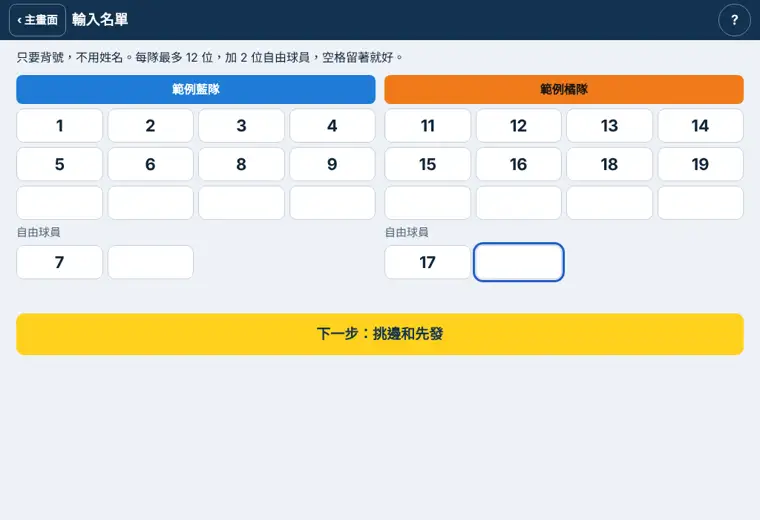
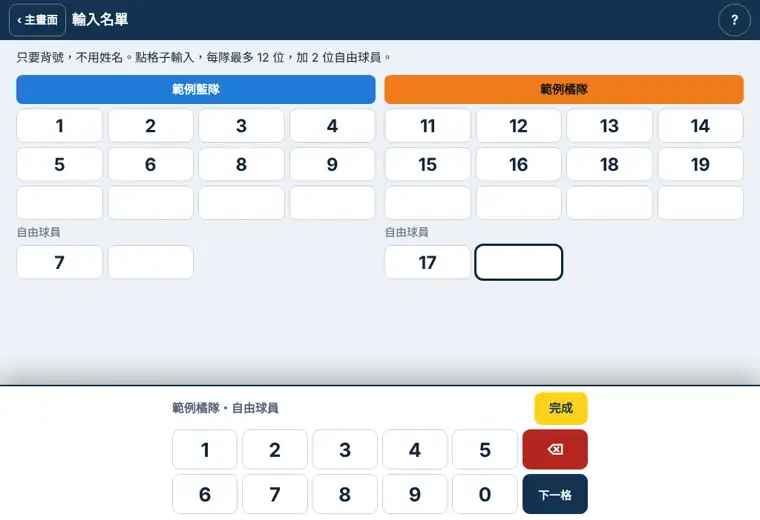
二裁輪轉表：修正安裝後局末面板跑出畫面，名單改用數字鍵盤
Claude-Session: https://claude.ai/code/session_01Q8m2fy2RTEJAX7p5nreRUD

diff --git a/school/index.html b/school/index.html
@@ -100,7 +100,18 @@ button.lubtn{position:relative;height:68px;width:100%;padding:0;background:var(-
 .rteam{display:flex;flex-direction:column;gap:6px;min-width:0}
 .rname{background:var(--j);color:var(--jt);border-radius:8px;padding:8px;font-weight:800;text-align:center;overflow-wrap:anywhere}
 .rgrid{display:grid;grid-template-columns:repeat(4,minmax(0,1fr));gap:6px}
-.rgrid input{text-align:center;font:700 22px var(--num);padding:0}
+.rcell{min-height:46px;height:46px;padding:0;font:700 24px var(--num)}
+.rcell.on{outline:3px solid var(--ink);outline-offset:-1px}
+.page.padopen{padding-bottom:200px;scroll-padding-bottom:200px}
+.rpad{position:fixed;left:0;right:0;bottom:calc(0px - var(--vgap));z-index:15;background:var(--panel);border-top:2px solid var(--ink);padding:8px max(12px,env(safe-area-inset-right,0px)) calc(8px + var(--safe-bot)) max(12px,env(safe-area-inset-left,0px));display:flex;flex-direction:column;gap:6px;align-items:center;box-shadow:0 -10px 30px rgba(0,0,0,.28)}
+.rpad>*{width:100%;max-width:560px}
+.rphead{display:flex;justify-content:space-between;align-items:center;gap:8px;color:var(--muted);font-weight:700}
+.rdone{background:var(--accent);border-color:var(--accent);color:var(--accent-ink);font-weight:800;min-width:72px}
+.rkeys{display:grid;grid-template-columns:repeat(6,minmax(0,1fr));gap:6px}
+.rkeys button{min-height:54px;padding:0;font:700 26px var(--num)}
+.rkeys .rdel{background:var(--bad);border-color:var(--bad);color:var(--panel);font-size:20px}
+.rkeys .rnext{font:800 15px var(--font);background:var(--brand);border-color:var(--brand);color:#fff}
+@media (prefers-color-scheme:dark){.rkeys .rnext{background:#6FB3F2;border-color:#6FB3F2;color:#12324F}}
 /* 比賽 */
 .play{flex:1;min-height:0;display:grid;gap:8px;padding:8px max(10px,env(safe-area-inset-right,0px)) calc(8px + var(--safe-bot)) max(10px,env(safe-area-inset-left,0px));grid-template:auto minmax(0,1fr)/repeat(2,minmax(0,1fr));grid-template-areas:"a b" "c c"}
 .teamA{grid-area:a}.teamB{grid-area:b}.courtw{grid-area:c;display:flex;flex-direction:column;gap:4px;min-height:0}
@@ -143,7 +154,7 @@ button.lubtn{position:relative;height:68px;width:100%;padding:0;background:var(-
 .chips{display:flex;flex-wrap:wrap;gap:6px}
 .chips button{min-width:56px;min-height:48px;font:700 22px var(--num)}
 .sheet .sub2{display:grid;grid-template-columns:repeat(2,minmax(0,1fr));gap:8px}
-@media (min-width:760px){.sheet{left:auto;top:0;width:380px;max-height:none;border-radius:14px 0 0 14px;padding-top:calc(16px + var(--safe-top))}.sheet.center{top:auto;bottom:50%;right:50%;transform:translate(50%,50%);width:440px;border-radius:14px;padding-top:16px}}
+@media (min-width:760px){.sheet{left:auto;top:0;width:380px;max-height:none;border-radius:14px 0 0 14px;padding-top:calc(16px + var(--safe-top))}.sheet.center{top:50%;bottom:auto!important;left:50%;right:auto;transform:translate(-50%,-50%);width:440px;max-width:calc(100% - 32px);max-height:calc(100% - 32px);border-radius:14px;padding-top:16px;padding-bottom:16px}}
 .res{width:100%;border-collapse:collapse}
 .res th,.res td{border:1px solid var(--line);padding:8px 4px;text-align:center}
 .res td{font:700 22px var(--num)}
@@ -187,6 +198,7 @@ button.lubtn{position:relative;height:68px;width:100%;padding:0;background:var(-
 }
 @media (orientation:landscape) and (min-width:640px) and (max-width:900px){.play{grid-template-columns:118px minmax(0,1fr) 118px}.team .thead:nth-child(2) .muted{font-size:13px}}
 @media (orientation:landscape) and (max-height:520px){
+  .rpad{flex-direction:row;padding-top:6px;padding-bottom:calc(6px + var(--safe-bot))}.rpad>*{max-width:none}.rphead{flex:none;width:auto;flex-direction:column;gap:2px;font-size:13px}.rphead span{display:none}.rkeys{flex:1;grid-template-columns:repeat(10,minmax(0,1fr)) 44px 62px}.rkeys button{min-height:44px;font-size:22px}.rkeys .rdel{order:1}.rkeys .rnext{order:2;font-size:14px}.page.padopen{padding-bottom:70px;scroll-padding-bottom:70px}
   .hero{padding-top:12px;padding-bottom:12px}.hero h1{font-size:34px}.hero .ballbg{display:none}
   .sheet{max-height:100%}button.lubtn{height:52px}
   .himg{display:none}
@@ -214,7 +226,7 @@ button.lubtn{position:relative;height:68px;width:100%;padding:0;background:var(-
 <script>
 (function(){'use strict';
 /* 所有動作都是事件，畫面由 reduce() 推算；復原就是拿掉最後一個事件 */
-var KEY='vb-school-v1',BUILD='1105-2243',lastRaw=null,memOnly=false,stale=false;
+var KEY='vb-school-v1',BUILD='1105-2257',lastRaw=null,memOnly=false,stale=false;
 var ROMAN=['I','II','III','IV','V','VI'];
 var LEFT=[[4,3],[5,2],[0,1]],RIGHT=[[1,0],[2,5],[3,4]]; // 坐在記錄台看出去：每列 [左欄, 右欄]，靠網子的是前排
 var BALL="<svg class=\"ball\" viewBox=\"-100 -100 200 200\" width=\"76\" height=\"76\" aria-hidden=\"true\"><g transform=\"translate(0,0) scale(1.0)\"><clipPath id=\"sbvb\"><circle r=\"97\"/></clipPath><clipPath id=\"sbvbs\"><path d=\"M0.00 0.00C34.00 -26.00 44.00 -74.00 24.00 -140.00L130.00 -225.17L260.00 -0.00L109.24 90.78C42.09 75.11 5.52 42.44 -0.00 0.00Z\"/></clipPath><g clip-path=\"url(#sbvb)\"><g transform=\"rotate(0)\"><g clip-path=\"url(#sbvbs)\"><path d=\"M-60 46L0 0C34.00 -26.00 44.00 -74.00 24.00 -140.00\" fill=\"none\" stroke=\"#12324F\" stroke-width=\"327\" stroke-linejoin=\"round\"/><path d=\"M-60 46L0 0C34.00 -26.00 44.00 -74.00 24.00 -140.00\" fill=\"none\" stroke=\"#1F5FC4\" stroke-width=\"320\" stroke-linejoin=\"round\"/><path d=\"M-60 46L0 0C34.00 -26.00 44.00 -74.00 24.00 -140.00\" fill=\"none\" stroke=\"#12324F\" stroke-width=\"157\" stroke-linejoin=\"round\"/><path d=\"M-60 46L0 0C34.00 -26.00 44.00 -74.00 24.00 -140.00\" fill=\"none\" stroke=\"#FFFFFF\" stroke-width=\"150\" stroke-linejoin=\"round\"/><path d=\"M-60 46L0 0C34.00 -26.00 44.00 -74.00 24.00 -140.00\" fill=\"none\" stroke=\"#12324F\" stroke-width=\"85\" stroke-linejoin=\"round\"/><path d=\"M-60 46L0 0C34.00 -26.00 44.00 -74.00 24.00 -140.00\" fill=\"none\" stroke=\"#FFD21F\" stroke-width=\"78\" stroke-linejoin=\"round\"/></g></g><g transform=\"rotate(120)\"><g clip-path=\"url(#sbvbs)\"><path d=\"M-60 46L0 0C34.00 -26.00 44.00 -74.00 24.00 -140.00\" fill=\"none\" stroke=\"#12324F\" stroke-width=\"327\" stroke-linejoin=\"round\"/><path d=\"M-60 46L0 0C34.00 -26.00 44.00 -74.00 24.00 -140.00\" fill=\"none\" stroke=\"#1F5FC4\" stroke-width=\"320\" stroke-linejoin=\"round\"/><path d=\"M-60 46L0 0C34.00 -26.00 44.00 -74.00 24.00 -140.00\" fill=\"none\" stroke=\"#12324F\" stroke-width=\"157\" stroke-linejoin=\"round\"/><path d=\"M-60 46L0 0C34.00 -26.00 44.00 -74.00 24.00 -140.00\" fill=\"none\" stroke=\"#FFFFFF\" stroke-width=\"150\" stroke-linejoin=\"round\"/><path d=\"M-60 46L0 0C34.00 -26.00 44.00 -74.00 24.00 -140.00\" fill=\"none\" stroke=\"#12324F\" stroke-width=\"85\" stroke-linejoin=\"round\"/><path d=\"M-60 46L0 0C34.00 -26.00 44.00 -74.00 24.00 -140.00\" fill=\"none\" stroke=\"#FFD21F\" stroke-width=\"78\" stroke-linejoin=\"round\"/></g></g><g transform=\"rotate(240)\"><g clip-path=\"url(#sbvbs)\"><path d=\"M-60 46L0 0C34.00 -26.00 44.00 -74.00 24.00 -140.00\" fill=\"none\" stroke=\"#12324F\" stroke-width=\"327\" stroke-linejoin=\"round\"/><path d=\"M-60 46L0 0C34.00 -26.00 44.00 -74.00 24.00 -140.00\" fill=\"none\" stroke=\"#1F5FC4\" stroke-width=\"320\" stroke-linejoin=\"round\"/><path d=\"M-60 46L0 0C34.00 -26.00 44.00 -74.00 24.00 -140.00\" fill=\"none\" stroke=\"#12324F\" stroke-width=\"157\" stroke-linejoin=\"round\"/><path d=\"M-60 46L0 0C34.00 -26.00 44.00 -74.00 24.00 -140.00\" fill=\"none\" stroke=\"#FFFFFF\" stroke-width=\"150\" stroke-linejoin=\"round\"/><path d=\"M-60 46L0 0C34.00 -26.00 44.00 -74.00 24.00 -140.00\" fill=\"none\" stroke=\"#12324F\" stroke-width=\"85\" stroke-linejoin=\"round\"/><path d=\"M-60 46L0 0C34.00 -26.00 44.00 -74.00 24.00 -140.00\" fill=\"none\" stroke=\"#FFD21F\" stroke-width=\"78\" stroke-linejoin=\"round\"/></g></g><g transform=\"rotate(0)\"><path d=\"M0.00 0.00C34.00 -26.00 44.00 -74.00 24.00 -140.00\" fill=\"none\" stroke=\"#12324F\" stroke-width=\"7\" stroke-linecap=\"round\"/></g><g transform=\"rotate(120)\"><path d=\"M0.00 0.00C34.00 -26.00 44.00 -74.00 24.00 -140.00\" fill=\"none\" stroke=\"#12324F\" stroke-width=\"7\" stroke-linecap=\"round\"/></g><g transform=\"rotate(240)\"><path d=\"M0.00 0.00C34.00 -26.00 44.00 -74.00 24.00 -140.00\" fill=\"none\" stroke=\"#12324F\" stroke-width=\"7\" stroke-linecap=\"round\"/></g></g><circle r=\"97\" fill=\"none\" stroke=\"#12324F\" stroke-width=\"7\"/></g></svg>";
@@ -344,11 +356,15 @@ function setHtml(s){
 }
 function rosterHtml(s){
   var r=ui.ros;if(!r){var g=s.roster;function mk(a,n){a=(a||[]).slice();while(a.length<n)a.push('');return a}
-    r=ui.ros=g?{t1:{p:mk(g.t1.p,12),l:mk(g.t1.l,2)},t2:{p:mk(g.t2.p,12),l:mk(g.t2.l,2)}}:{t1:{p:mk([],12),l:mk([],2)},t2:{p:mk([],12),l:mk([],2)}}}
-  function team(k){function inp(gp,i){return '<input inputmode="numeric" pattern="[0-9]*" maxlength="2" enterkeyhint="next" autocomplete="off" data-r="'+k+'" data-g="'+gp+'" data-i="'+i+'" value="'+esc(r[k][gp][i])+'" aria-label="'+esc(teamNo(s,k))+(gp==='l'?' 自由球員 ':' 球員 ')+(i+1)+'">'}
+    r=ui.ros=g?{t1:{p:mk(g.t1.p,12),l:mk(g.t1.l,2)},t2:{p:mk(g.t2.p,12),l:mk(g.t2.l,2)}}:{t1:{p:mk([],12),l:mk([],2)},t2:{p:mk([],12),l:mk([],2)}};
+    ui.rcur=g?null:{k:'t1',g:'p',i:0};ui.rosMsg=''}
+  var c=ui.rcur;
+  function team(k){function inp(gp,i){var on=c&&c.k===k&&c.g===gp&&c.i===i;return '<button class="rcell'+(on?' on':'')+'" data-a="rcell" data-k="'+k+'" data-gp="'+gp+'" data-v="'+i+'" aria-pressed="'+!!on+'" aria-label="'+esc(teamNo(s,k))+(gp==='l'?' 自由球員 ':' 球員 ')+(i+1)+'">'+esc(r[k][gp][i])+'</button>'}
     return '<section class="rteam"><div class="rname" style="'+jstyle(s,k)+'">'+esc(teamNo(s,k))+'</div><div class="rgrid">'+r[k].p.map(function(_,i){return inp('p',i)}).join('')+'</div><div class="muted">自由球員</div><div class="rgrid">'+r[k].l.map(function(_,i){return inp('l',i)}).join('')+'</div></section>'}
-  return bar('輸入名單','',qbtn('start'),'home')+'<main class="page"><div class="wrap wide"><p>只要背號，不用姓名。每隊最多 12 位，加 2 位自由球員，空格留著就好。</p><div class="two">'+team('t1')+team('t2')+'</div><p class="err" id="roserr"></p><button class="primary" data-a="rosgo">下一步：挑邊和先發</button></div></main>';
+  var pad=c?'<div class="rpad" role="group" aria-label="輸入背號"><div class="rphead"><span>'+esc(teamNo(s,c.k))+'・'+(c.g==='l'?'自由球員':'一般球員')+'</span><button class="rdone" data-a="rdone">完成</button></div><div class="rkeys">'+[1,2,3,4,5].map(rk).join('')+'<button class="rdel" data-a="rkey" data-v="del" aria-label="刪除一格">⌫</button>'+[6,7,8,9,0].map(rk).join('')+'<button class="rnext" data-a="rnext">下一格</button></div></div>':'';
+  return bar('輸入名單','',qbtn('start'),'home')+'<main class="page'+(c?' padopen':'')+'"><div class="wrap wide"><p>只要背號，不用姓名。點格子輸入，每隊最多 12 位，加 2 位自由球員。</p><div class="two">'+team('t1')+team('t2')+'</div><p class="err" id="roserr" role="alert">'+esc(ui.rosMsg||'')+'</p>'+(c?'':'<button class="primary" data-a="rosgo">下一步：挑邊和先發</button>')+'</div></main>'+pad;
 }
+function rk(n){return '<button data-a="rkey" data-v="'+n+'">'+n+'</button>'}
 function cell(s,k,pos){
   var c=s.c,idx=(pos+c.rot[k])%6,no=c.cur[k][idx],isL=c.lib[k].indexOf(no)>=0,srv=pos===0&&c.serving===k,b=c.bind[k][idx],tag='';
   if(isL&&c.libOut[k])tag='L 換 '+c.libOut[k].no;else if(b!=null)tag='綁 '+b;
@@ -403,7 +419,7 @@ function overHtml(s){
 var HELP=[
  {id:'start',name:'開始一場比賽',desc:'隊名、賽制、挑邊、先發',cards:[
   ['h-new','填隊名和賽制','隊名可以不填。選球衣顏色和三局兩勝或五局三勝，按下一步。'],
-  ['h-roster','輸入名單','賽前輸入兩隊背號，不用姓名。每隊最多 12 位，加 2 位自由球員。'],
+  ['h-roster','輸入名單','點格子，用下方鍵盤輸入背號，不用姓名。重複的號碼不會留下來。打完按「完成」。'],
   ['h-set','挑邊和先發','點先發球的隊伍，點格子再點背號排先發。畫面和你看到的球場同方向，靠網子的是前排。'],
   ['h-setnext','下一局','第 2 局起自動換邊，先發先帶上一局的，要改就點格子。決勝局會請你重新挑邊。']]},
  {id:'play',name:'比賽中',desc:'得分、發球、暫停、復原',cards:[
@@ -476,16 +492,15 @@ function setGo(s){
 }
 app.addEventListener('input',function(e){var t=e.target,d=t.dataset;
   if(d.f&&fresh){fresh[d.f]=t.value}
-  if(d.r){t.value=t.value.replace(/\D/g,'');ui.ros[d.r][d.g][Number(d.i)]=t.value;rosMsg('');if(t.value.length===2&&!rosDup(t))rosNext(t)}
 });
-function rosMsg(x){var e=document.getElementById('roserr');if(e)e.textContent=x}
 /* 重複的背號不留下來：兩位數打完馬上清掉；一位數可能還要接著打（5 和 51），離開格子時才清 */
-function rosDup(t){var d=t.dataset,v=t.value;if(v==='')return false;var hit=[].slice.call(app.querySelectorAll('[data-r="'+d.r+'"]')).some(function(x){return x!==t&&x.value!==''&&Number(x.value)===Number(v)});if(!hit)return false;t.value='';ui.ros[d.r][d.g][Number(d.i)]='';rosMsg(Number(v)+' 號已經在名單上了');return true}
-app.addEventListener('focusout',function(e){if(e.target.dataset&&e.target.dataset.r)rosDup(e.target)});
-function rosNext(t){var a=[].slice.call(app.querySelectorAll('[data-r]')),n=a[a.indexOf(t)+1];if(n)n.focus()}
-app.addEventListener('keydown',function(e){if(e.key==='Enter'&&e.target.dataset&&e.target.dataset.r&&!e.isComposing){e.preventDefault();rosNext(e.target)}});
+function rosDup(){var c=ui.rcur;if(!c)return false;var t=ui.ros[c.k],v=t[c.g][c.i];if(v==='')return false;var hit=false;['p','l'].forEach(function(g){t[g].forEach(function(x,i){if(!(g===c.g&&i===c.i)&&x!==''&&Number(x)===Number(v))hit=true})});if(!hit)return false;t[c.g][c.i]='';ui.rosMsg=Number(v)+' 號已經在名單上了';return true}
+function rosKey(v){var c=ui.rcur,t=ui.ros[c.k][c.g],x=String(t[c.i]);ui.rosMsg='';if(v==='del')t[c.i]=x.slice(0,-1);else if(x.length<2){t[c.i]=x+v;if(t[c.i].length===2&&!rosDup())rosStep()}else{rosStep();ui.ros[ui.rcur.k][ui.rcur.g][ui.rcur.i]=v}render();rosShow()}
+function rosStep(){var c=ui.rcur;if(c.g==='p'&&c.i<11)c.i++;else if(c.g==='p'){c.g='l';c.i=0}else if(c.i<1)c.i++;else{c.k=other(c.k);c.g='p';c.i=0}}
+function rosShow(){var e=app.querySelector('.rcell.on');if(e)e.scrollIntoView({block:'nearest'})}
 addEventListener('keydown',function(e){kbd=e.key==='Tab'||kbd;
   if(e.key==='Escape'){if(ui.help){ui.help=null;render()}else if(ui.sub){ui.sub=null;render()}}
+  if(ui.rcur&&ui.ros&&!ui.help){if(/^\d$/.test(e.key))rosKey(e.key);else if(e.key==='Backspace')rosKey('del');else if(e.key==='Enter'){e.preventDefault();if(!rosDup())rosStep();render();rosShow()}else if(e.key==='Escape'){rosDup();ui.rcur=null;render()}}
   if(ui.sub&&ui.sub.ext&&!ui.help&&document.querySelector('.keys')){if(/^\d$/.test(e.key))keyTap(e.key);else if(e.key==='Backspace')keyTap('del');else if(e.key==='Enter'){e.preventDefault();subGo()}}
   if(ui.help&&ui.help.t){if(e.key==='ArrowRight')helpGo(1);if(e.key==='ArrowLeft')helpGo(-1)}
 });
@@ -516,6 +531,10 @@ app.addEventListener('click',function(e){
     case 'del':ui.del=v;break;
     case 'delno':ui.del=null;break;
     case 'delyes':db.matches=db.matches.filter(function(x){return x.id!==v});ui.del=null;save();break;
+    case 'rcell':rosDup();ui.rcur={k:k,g:b.dataset.gp,i:Number(v)};break;
+    case 'rkey':rosKey(v);return;
+    case 'rnext':if(!rosDup())rosStep();render();rosShow();return;
+    case 'rdone':rosDup();ui.rcur=null;break;
     case 'rosgo':
       var rs=ui.ros,re_=document.getElementById('roserr'),out={},bad=null;
       ['t1','t2'].forEach(function(t){var pl=rs[t].p.map(function(x){return String(x).trim()}).filter(Boolean).map(Number),ll=rs[t].l.map(function(x){return String(x).trim()}).filter(Boolean).map(Number),al=pl.concat(ll),nm0=teamNo({info:m.info},t);
@@ -523,7 +542,7 @@ app.addEventListener('click',function(e){
         al.forEach(function(n,i){if(!bad&&al.indexOf(n)!==i)bad=nm0+'有重複的背號 '+n});
         out[t]={p:pl.sort(function(a,b){return a-b}),l:ll}});
       if(bad){re_.textContent=bad;return}
-      m.info.roster=out;m.ev=m.ev.filter(function(e){return e.t!=='RADD'});ui.ros=null;ui.editRoster=false;ui.draft=null;save();break;
+      m.info.roster=out;m.ev=m.ev.filter(function(e){return e.t!=='RADD'});ui.ros=null;ui.rcur=null;ui.editRoster=false;ui.draft=null;save();break;
     case 'editroster':ui.editRoster=true;ui.ros=null;break;
     case 'lucell':var dl=ui.draft;dl.pick={k:k,pos:Number(v)};break;
     case 'lupick':var dp=ui.draft;dp.lu[dp.pick.k][dp.pick.pos]=Number(v);nextPick(dp);break;

diff --git a/tools/school/src.html b/tools/school/src.html
@@ -100,7 +100,18 @@ button.lubtn{position:relative;height:68px;width:100%;padding:0;background:var(-
 .rteam{display:flex;flex-direction:column;gap:6px;min-width:0}
 .rname{background:var(--j);color:var(--jt);border-radius:8px;padding:8px;font-weight:800;text-align:center;overflow-wrap:anywhere}
 .rgrid{display:grid;grid-template-columns:repeat(4,minmax(0,1fr));gap:6px}
-.rgrid input{text-align:center;font:700 22px var(--num);padding:0}
+.rcell{min-height:46px;height:46px;padding:0;font:700 24px var(--num)}
+.rcell.on{outline:3px solid var(--ink);outline-offset:-1px}
+.page.padopen{padding-bottom:200px;scroll-padding-bottom:200px}
+.rpad{position:fixed;left:0;right:0;bottom:calc(0px - var(--vgap));z-index:15;background:var(--panel);border-top:2px solid var(--ink);padding:8px max(12px,env(safe-area-inset-right,0px)) calc(8px + var(--safe-bot)) max(12px,env(safe-area-inset-left,0px));display:flex;flex-direction:column;gap:6px;align-items:center;box-shadow:0 -10px 30px rgba(0,0,0,.28)}
+.rpad>*{width:100%;max-width:560px}
+.rphead{display:flex;justify-content:space-between;align-items:center;gap:8px;color:var(--muted);font-weight:700}
+.rdone{background:var(--accent);border-color:var(--accent);color:var(--accent-ink);font-weight:800;min-width:72px}
+.rkeys{display:grid;grid-template-columns:repeat(6,minmax(0,1fr));gap:6px}
+.rkeys button{min-height:54px;padding:0;font:700 26px var(--num)}
+.rkeys .rdel{background:var(--bad);border-color:var(--bad);color:var(--panel);font-size:20px}
+.rkeys .rnext{font:800 15px var(--font);background:var(--brand);border-color:var(--brand);color:#fff}
+@media (prefers-color-scheme:dark){.rkeys .rnext{background:#6FB3F2;border-color:#6FB3F2;color:#12324F}}
 /* 比賽 */
 .play{flex:1;min-height:0;display:grid;gap:8px;padding:8px max(10px,env(safe-area-inset-right,0px)) calc(8px + var(--safe-bot)) max(10px,env(safe-area-inset-left,0px));grid-template:auto minmax(0,1fr)/repeat(2,minmax(0,1fr));grid-template-areas:"a b" "c c"}
 .teamA{grid-area:a}.teamB{grid-area:b}.courtw{grid-area:c;display:flex;flex-direction:column;gap:4px;min-height:0}
@@ -143,7 +154,7 @@ button.lubtn{position:relative;height:68px;width:100%;padding:0;background:var(-
 .chips{display:flex;flex-wrap:wrap;gap:6px}
 .chips button{min-width:56px;min-height:48px;font:700 22px var(--num)}
 .sheet .sub2{display:grid;grid-template-columns:repeat(2,minmax(0,1fr));gap:8px}
-@media (min-width:760px){.sheet{left:auto;top:0;width:380px;max-height:none;border-radius:14px 0 0 14px;padding-top:calc(16px + var(--safe-top))}.sheet.center{top:auto;bottom:50%;right:50%;transform:translate(50%,50%);width:440px;border-radius:14px;padding-top:16px}}
+@media (min-width:760px){.sheet{left:auto;top:0;width:380px;max-height:none;border-radius:14px 0 0 14px;padding-top:calc(16px + var(--safe-top))}.sheet.center{top:50%;bottom:auto!important;left:50%;right:auto;transform:translate(-50%,-50%);width:440px;max-width:calc(100% - 32px);max-height:calc(100% - 32px);border-radius:14px;padding-top:16px;padding-bottom:16px}}
 .res{width:100%;border-collapse:collapse}
 .res th,.res td{border:1px solid var(--line);padding:8px 4px;text-align:center}
 .res td{font:700 22px var(--num)}
@@ -187,6 +198,7 @@ button.lubtn{position:relative;height:68px;width:100%;padding:0;background:var(-
 }
 @media (orientation:landscape) and (min-width:640px) and (max-width:900px){.play{grid-template-columns:118px minmax(0,1fr) 118px}.team .thead:nth-child(2) .muted{font-size:13px}}
 @media (orientation:landscape) and (max-height:520px){
+  .rpad{flex-direction:row;padding-top:6px;padding-bottom:calc(6px + var(--safe-bot))}.rpad>*{max-width:none}.rphead{flex:none;width:auto;flex-direction:column;gap:2px;font-size:13px}.rphead span{display:none}.rkeys{flex:1;grid-template-columns:repeat(10,minmax(0,1fr)) 44px 62px}.rkeys button{min-height:44px;font-size:22px}.rkeys .rdel{order:1}.rkeys .rnext{order:2;font-size:14px}.page.padopen{padding-bottom:70px;scroll-padding-bottom:70px}
   .hero{padding-top:12px;padding-bottom:12px}.hero h1{font-size:34px}.hero .ballbg{display:none}
   .sheet{max-height:100%}button.lubtn{height:52px}
   .himg{display:none}
@@ -344,11 +356,15 @@ function setHtml(s){
 }
 function rosterHtml(s){
   var r=ui.ros;if(!r){var g=s.roster;function mk(a,n){a=(a||[]).slice();while(a.length<n)a.push('');return a}
-    r=ui.ros=g?{t1:{p:mk(g.t1.p,12),l:mk(g.t1.l,2)},t2:{p:mk(g.t2.p,12),l:mk(g.t2.l,2)}}:{t1:{p:mk([],12),l:mk([],2)},t2:{p:mk([],12),l:mk([],2)}}}
-  function team(k){function inp(gp,i){return '<input inputmode="numeric" pattern="[0-9]*" maxlength="2" enterkeyhint="next" autocomplete="off" data-r="'+k+'" data-g="'+gp+'" data-i="'+i+'" value="'+esc(r[k][gp][i])+'" aria-label="'+esc(teamNo(s,k))+(gp==='l'?' 自由球員 ':' 球員 ')+(i+1)+'">'}
+    r=ui.ros=g?{t1:{p:mk(g.t1.p,12),l:mk(g.t1.l,2)},t2:{p:mk(g.t2.p,12),l:mk(g.t2.l,2)}}:{t1:{p:mk([],12),l:mk([],2)},t2:{p:mk([],12),l:mk([],2)}};
+    ui.rcur=g?null:{k:'t1',g:'p',i:0};ui.rosMsg=''}
+  var c=ui.rcur;
+  function team(k){function inp(gp,i){var on=c&&c.k===k&&c.g===gp&&c.i===i;return '<button class="rcell'+(on?' on':'')+'" data-a="rcell" data-k="'+k+'" data-gp="'+gp+'" data-v="'+i+'" aria-pressed="'+!!on+'" aria-label="'+esc(teamNo(s,k))+(gp==='l'?' 自由球員 ':' 球員 ')+(i+1)+'">'+esc(r[k][gp][i])+'</button>'}
     return '<section class="rteam"><div class="rname" style="'+jstyle(s,k)+'">'+esc(teamNo(s,k))+'</div><div class="rgrid">'+r[k].p.map(function(_,i){return inp('p',i)}).join('')+'</div><div class="muted">自由球員</div><div class="rgrid">'+r[k].l.map(function(_,i){return inp('l',i)}).join('')+'</div></section>'}
-  return bar('輸入名單','',qbtn('start'),'home')+'<main class="page"><div class="wrap wide"><p>只要背號，不用姓名。每隊最多 12 位，加 2 位自由球員，空格留著就好。</p><div class="two">'+team('t1')+team('t2')+'</div><p class="err" id="roserr"></p><button class="primary" data-a="rosgo">下一步：挑邊和先發</button></div></main>';
+  var pad=c?'<div class="rpad" role="group" aria-label="輸入背號"><div class="rphead"><span>'+esc(teamNo(s,c.k))+'・'+(c.g==='l'?'自由球員':'一般球員')+'</span><button class="rdone" data-a="rdone">完成</button></div><div class="rkeys">'+[1,2,3,4,5].map(rk).join('')+'<button class="rdel" data-a="rkey" data-v="del" aria-label="刪除一格">⌫</button>'+[6,7,8,9,0].map(rk).join('')+'<button class="rnext" data-a="rnext">下一格</button></div></div>':'';
+  return bar('輸入名單','',qbtn('start'),'home')+'<main class="page'+(c?' padopen':'')+'"><div class="wrap wide"><p>只要背號，不用姓名。點格子輸入，每隊最多 12 位，加 2 位自由球員。</p><div class="two">'+team('t1')+team('t2')+'</div><p class="err" id="roserr" role="alert">'+esc(ui.rosMsg||'')+'</p>'+(c?'':'<button class="primary" data-a="rosgo">下一步：挑邊和先發</button>')+'</div></main>'+pad;
 }
+function rk(n){return '<button data-a="rkey" data-v="'+n+'">'+n+'</button>'}
 function cell(s,k,pos){
   var c=s.c,idx=(pos+c.rot[k])%6,no=c.cur[k][idx],isL=c.lib[k].indexOf(no)>=0,srv=pos===0&&c.serving===k,b=c.bind[k][idx],tag='';
   if(isL&&c.libOut[k])tag='L 換 '+c.libOut[k].no;else if(b!=null)tag='綁 '+b;
@@ -403,7 +419,7 @@ function overHtml(s){
 var HELP=[
  {id:'start',name:'開始一場比賽',desc:'隊名、賽制、挑邊、先發',cards:[
   ['h-new','填隊名和賽制','隊名可以不填。選球衣顏色和三局兩勝或五局三勝，按下一步。'],
-  ['h-roster','輸入名單','賽前輸入兩隊背號，不用姓名。每隊最多 12 位，加 2 位自由球員。'],
+  ['h-roster','輸入名單','點格子，用下方鍵盤輸入背號，不用姓名。重複的號碼不會留下來。打完按「完成」。'],
   ['h-set','挑邊和先發','點先發球的隊伍，點格子再點背號排先發。畫面和你看到的球場同方向，靠網子的是前排。'],
   ['h-setnext','下一局','第 2 局起自動換邊，先發先帶上一局的，要改就點格子。決勝局會請你重新挑邊。']]},
  {id:'play',name:'比賽中',desc:'得分、發球、暫停、復原',cards:[
@@ -476,16 +492,15 @@ function setGo(s){
 }
 app.addEventListener('input',function(e){var t=e.target,d=t.dataset;
   if(d.f&&fresh){fresh[d.f]=t.value}
-  if(d.r){t.value=t.value.replace(/\D/g,'');ui.ros[d.r][d.g][Number(d.i)]=t.value;rosMsg('');if(t.value.length===2&&!rosDup(t))rosNext(t)}
 });
-function rosMsg(x){var e=document.getElementById('roserr');if(e)e.textContent=x}
 /* 重複的背號不留下來：兩位數打完馬上清掉；一位數可能還要接著打（5 和 51），離開格子時才清 */
-function rosDup(t){var d=t.dataset,v=t.value;if(v==='')return false;var hit=[].slice.call(app.querySelectorAll('[data-r="'+d.r+'"]')).some(function(x){return x!==t&&x.value!==''&&Number(x.value)===Number(v)});if(!hit)return false;t.value='';ui.ros[d.r][d.g][Number(d.i)]='';rosMsg(Number(v)+' 號已經在名單上了');return true}
-app.addEventListener('focusout',function(e){if(e.target.dataset&&e.target.dataset.r)rosDup(e.target)});
-function rosNext(t){var a=[].slice.call(app.querySelectorAll('[data-r]')),n=a[a.indexOf(t)+1];if(n)n.focus()}
-app.addEventListener('keydown',function(e){if(e.key==='Enter'&&e.target.dataset&&e.target.dataset.r&&!e.isComposing){e.preventDefault();rosNext(e.target)}});
+function rosDup(){var c=ui.rcur;if(!c)return false;var t=ui.ros[c.k],v=t[c.g][c.i];if(v==='')return false;var hit=false;['p','l'].forEach(function(g){t[g].forEach(function(x,i){if(!(g===c.g&&i===c.i)&&x!==''&&Number(x)===Number(v))hit=true})});if(!hit)return false;t[c.g][c.i]='';ui.rosMsg=Number(v)+' 號已經在名單上了';return true}
+function rosKey(v){var c=ui.rcur,t=ui.ros[c.k][c.g],x=String(t[c.i]);ui.rosMsg='';if(v==='del')t[c.i]=x.slice(0,-1);else if(x.length<2){t[c.i]=x+v;if(t[c.i].length===2&&!rosDup())rosStep()}else{rosStep();ui.ros[ui.rcur.k][ui.rcur.g][ui.rcur.i]=v}render();rosShow()}
+function rosStep(){var c=ui.rcur;if(c.g==='p'&&c.i<11)c.i++;else if(c.g==='p'){c.g='l';c.i=0}else if(c.i<1)c.i++;else{c.k=other(c.k);c.g='p';c.i=0}}
+function rosShow(){var e=app.querySelector('.rcell.on');if(e)e.scrollIntoView({block:'nearest'})}
 addEventListener('keydown',function(e){kbd=e.key==='Tab'||kbd;
   if(e.key==='Escape'){if(ui.help){ui.help=null;render()}else if(ui.sub){ui.sub=null;render()}}
+  if(ui.rcur&&ui.ros&&!ui.help){if(/^\d$/.test(e.key))rosKey(e.key);else if(e.key==='Backspace')rosKey('del');else if(e.key==='Enter'){e.preventDefault();if(!rosDup())rosStep();render();rosShow()}else if(e.key==='Escape'){rosDup();ui.rcur=null;render()}}
   if(ui.sub&&ui.sub.ext&&!ui.help&&document.querySelector('.keys')){if(/^\d$/.test(e.key))keyTap(e.key);else if(e.key==='Backspace')keyTap('del');else if(e.key==='Enter'){e.preventDefault();subGo()}}
   if(ui.help&&ui.help.t){if(e.key==='ArrowRight')helpGo(1);if(e.key==='ArrowLeft')helpGo(-1)}
 });
@@ -516,6 +531,10 @@ app.addEventListener('click',function(e){
     case 'del':ui.del=v;break;
     case 'delno':ui.del=null;break;
     case 'delyes':db.matches=db.matches.filter(function(x){return x.id!==v});ui.del=null;save();break;
+    case 'rcell':rosDup();ui.rcur={k:k,g:b.dataset.gp,i:Number(v)};break;
+    case 'rkey':rosKey(v);return;
+    case 'rnext':if(!rosDup())rosStep();render();rosShow();return;
+    case 'rdone':rosDup();ui.rcur=null;break;
     case 'rosgo':
       var rs=ui.ros,re_=document.getElementById('roserr'),out={},bad=null;
       ['t1','t2'].forEach(function(t){var pl=rs[t].p.map(function(x){return String(x).trim()}).filter(Boolean).map(Number),ll=rs[t].l.map(function(x){return String(x).trim()}).filter(Boolean).map(Number),al=pl.concat(ll),nm0=teamNo({info:m.info},t);
@@ -523,7 +542,7 @@ app.addEventListener('click',function(e){
         al.forEach(function(n,i){if(!bad&&al.indexOf(n)!==i)bad=nm0+'有重複的背號 '+n});
         out[t]={p:pl.sort(function(a,b){return a-b}),l:ll}});
       if(bad){re_.textContent=bad;return}
-      m.info.roster=out;m.ev=m.ev.filter(function(e){return e.t!=='RADD'});ui.ros=null;ui.editRoster=false;ui.draft=null;save();break;
+      m.info.roster=out;m.ev=m.ev.filter(function(e){return e.t!=='RADD'});ui.ros=null;ui.rcur=null;ui.editRoster=false;ui.draft=null;save();break;
     case 'editroster':ui.editRoster=true;ui.ros=null;break;
     case 'lucell':var dl=ui.draft;dl.pick={k:k,pos:Number(v)};break;
     case 'lupick':var dp=ui.draft;dp.lu[dp.pick.k][dp.pick.pos]=Number(v);nextPick(dp);break;

diff --git a/tools/school/test.js b/tools/school/test.js
@@ -9,17 +9,20 @@ await p.goto(URL);
 const A=(a,extra='')=>p.click(`[data-a="${a}"]${extra}`);
 const st=()=>p.evaluate(()=>{const d=JSON.parse(localStorage.getItem('vb-school-v1'));const m=d.matches.find(x=>x.id===d.cur);return m&&window.__vb.reduce(m)});
 const pt=async k=>{await p.click(`.pt[data-k="${k}"]`);await p.waitForTimeout(370)};
+const rc=(k,g,i)=>`.rcell[data-k="${k}"][data-gp="${g}"][data-v="${i}"]`;
+const put=async(k,g,i,n)=>{await p.click(rc(k,g,i));for(const d of String(n))await p.click(`[data-a="rkey"][data-v="${d}"]`)};
+const val=async(k,g,i)=>(await p.textContent(rc(k,g,i))).trim();
+const fill=async(k,ns,ls)=>{for(let i=0;i<ns.length;i++)await put(k,'p',i,ns[i]);for(let i=0;i<ls.length;i++)await put(k,'l',i,ls[i])};
 // 新比賽＋名單
 await A('new');await A('newgo');
-ok(await p.isVisible('[data-r="t1"]'),'名單頁');
-await A('rosgo');ok((await p.textContent('#roserr')).includes('至少要 6 位'),'少於 6 人擋下');
-const fill=async(k,ns,ls)=>{for(let i=0;i<ns.length;i++)await p.fill(`[data-r="${k}"][data-g="p"][data-i="${i}"]`,''+ns[i]);for(let i=0;i<ls.length;i++)await p.fill(`[data-r="${k}"][data-g="l"][data-i="${i}"]`,''+ls[i])};
+ok(await p.isVisible('.rcell'),'名單頁');await p.click('[data-a="rdone"]');
+await A('rosgo');ok((await p.textContent('#roserr')).includes('至少要 6 位'),'少於 6 人擋下');await p.click(rc('t1','p',0));
 await fill('t1',[1,2,3,4,5,6,8,9,10,11,12,13],[7,14]);await fill('t2',[21,22,23,24,25,26,28],[27]);
-ok(await p.locator('[data-r="t1"][data-g="p"]').count()===12&&await p.locator('[data-r="t1"][data-g="l"]').count()===2,'12+2 格');
-await p.fill('[data-r="t2"][data-g="p"][data-i="6"]','21');ok(await p.inputValue('[data-r="t2"][data-g="p"][data-i="6"]')===''&&(await p.textContent('#roserr')).includes('21 號'),'兩位數重複馬上清掉');
-await p.fill('[data-r="t1"][data-g="l"][data-i="1"]','5');await p.keyboard.press('Tab');ok(await p.inputValue('[data-r="t1"][data-g="l"][data-i="1"]')==='','一位數重複離開才清');
-await p.fill('[data-r="t1"][data-g="l"][data-i="1"]','5');await p.fill('[data-r="t1"][data-g="l"][data-i="1"]','51');ok(await p.inputValue('[data-r="t1"][data-g="l"][data-i="1"]')==='51','5 可以接著打成 51');await p.fill('[data-r="t1"][data-g="l"][data-i="1"]','14');
-await p.fill('[data-r="t2"][data-g="p"][data-i="6"]','28');await A('rosgo');
+ok(await p.locator('.rcell[data-k="t1"][data-gp="p"]').count()===12&&await p.locator('.rcell[data-k="t1"][data-gp="l"]').count()===2,'12+2 格');
+await p.click(rc('t2','p',6));await p.click('[data-a="rkey"][data-v="del"]');await p.click('[data-a="rkey"][data-v="del"]');for(const d of '21')await p.click(`[data-a="rkey"][data-v="${d}"]`);ok(await val('t2','p',6)===''&&(await p.textContent('#roserr')).includes('21 號'),'兩位數重複馬上清掉');
+await p.click(rc('t1','l',1));await p.click('[data-a="rkey"][data-v="del"]');await p.click('[data-a="rkey"][data-v="del"]');await p.click('[data-a="rkey"][data-v="5"]');await p.click('[data-a="rnext"]');ok(await val('t1','l',1)==='','一位數重複離開才清');
+await put('t1','l',1,'5');await p.click('[data-a="rkey"][data-v="1"]');ok(await val('t1','l',1)==='51','5 可以接著打成 51');await p.click(rc('t1','l',1));await p.click('[data-a="rkey"][data-v="del"]');await p.click('[data-a="rkey"][data-v="del"]');await put('t1','l',1,'14');
+await put('t2','p',6,'28');await A('rdone');await A('rosgo');
 // 先發
 await A('setgo');ok((await p.textContent('#seterr')).includes('先發球'),'要先選發球');
 await p.click('.tossb[data-v="t1"]');
@@ -66,7 +69,7 @@ await finish('t1');ok((await p.textContent('.sheet.center')).includes('換場'),
 await p.waitForTimeout(850);await A('swap');await finish('t1');await p.waitForTimeout(850);await A('end');
 ok((await p.textContent('.result')).includes('2:1'),'三局結束');
 // 五局制
-await A('home');await A('new');await p.click('[data-a="fmt"][data-v="5"]');await A('newgo');await fill('t1',[1,2,3,4,5,6],[]);await fill('t2',[11,12,13,14,15,16],[]);await A('rosgo');
+await A('home');await A('new');await p.click('[data-a="fmt"][data-v="5"]');await A('newgo');await fill('t1',[1,2,3,4,5,6],[]);await fill('t2',[11,12,13,14,15,16],[]);await A('rdone');await A('rosgo');
 for(let n=1;n<=3;n++){if(n===1){await p.click('.tossb[data-v="t1"]');for(const x of [1,2,3,4,5,6,11,12,13,14,15,16])await p.click(`[data-a="lupick"][data-v="${x}"]`)}await A('setgo');await finish('t1');await p.waitForTimeout(850);await A('end')}
 ok((await p.textContent('.result')).includes('3:0'),'五局三勝');
 ok(!errs.length,'無錯誤 '+errs.join('|'));

diff --git a/tools/school/sizes.js b/tools/school/sizes.js
@@ -3,7 +3,9 @@ const URL='file://'+path.resolve(__dirname,'../../school/index.html');
 const SZ=[[360,640],[375,667],[390,844],[402,874],[430,932],[844,390],[640,360],[768,1024],[820,1180],[1024,768],[1180,820],[1366,768],[1280,800],[1920,1080],[2560,1440]];
 (async()=>{const b=await chromium.launch();let bad=0;
 for(const scheme of ['light','dark'])for(const [w,h] of SZ){
- const c=await b.newContext({viewport:{width:w,height:h},colorScheme:scheme});const p=await c.newPage();await p.goto(URL);
+ const c=await b.newContext({viewport:{width:w,height:h},colorScheme:scheme});const p=await c.newPage();
+ const cdp=await c.newCDPSession(p);await cdp.send('Emulation.setEmulatedMedia',{features:[{name:'display-mode',value:scheme==='dark'?'standalone':'browser'}]}); // 深色這輪同時模擬安裝成 App
+ await p.goto(URL);
  const chk=async n=>{const r=await p.evaluate(()=>{const W=innerWidth,H=innerHeight,o=[];if(document.documentElement.scrollWidth>W)o.push('橫向超出');
   document.querySelectorAll('button:not(.link):not(.q)').forEach(e=>{const r=e.getBoundingClientRect();if(r.width&&(r.height<40||r.width<40)&&!e.closest('.keys'))o.push('小鈕 '+e.textContent.slice(0,8)+' '+Math.round(r.width)+'x'+Math.round(r.height))});
   document.querySelectorAll('.pt,.cellbtn,[data-a=undo],[data-a=to]').forEach(e=>{const r=e.getBoundingClientRect();if(r.bottom>H+1||r.right>W+1||r.height<34)o.push('超出 '+e.textContent.slice(0,8)+' '+Math.round(r.height))});
@@ -13,6 +15,9 @@ for(const scheme of ['light','dark'])for(const [w,h] of SZ){
  await p.click('.cellbtn >> nth=0');await chk('sub');
  if(w===1024&&scheme==='dark')await p.screenshot({path:process.argv[2]+'/dark.png'});
  if(w===390)await p.screenshot({path:process.argv[2]+'/p390-'+scheme+'.png'});
- await p.click('button[data-a=close]');if(w===390)await p.screenshot({path:process.argv[2]+'/p390b-'+scheme+'.png'});if(w===844)await p.screenshot({path:process.argv[2]+'/l844.png'});if(w===360)await p.screenshot({path:process.argv[2]+'/p360.png'});
+ await p.click('button[data-a=close]');
+ for(let i=0;i<25;i++){await p.click('.pt >> nth=0');await p.waitForTimeout(360);if(await p.isVisible('.sheet.center'))break}
+ const sb=await p.evaluate(()=>[...document.querySelectorAll('.sheet.center button')].map(e=>{const r=e.getBoundingClientRect();return r.top>=0&&r.bottom<=innerHeight&&r.left>=0&&r.right<=innerWidth}));if(sb.length!==2||sb.includes(false)){bad++;console.log(w,h,scheme,'局末按鈕超出',sb)}
+ if(w===820&&scheme==='dark')await p.screenshot({path:process.argv[2]+'/end820.png'});await p.waitForTimeout(850);await p.click('.sheet [data-a=undo]');if(w===390)await p.screenshot({path:process.argv[2]+'/p390b-'+scheme+'.png'});if(w===844)await p.screenshot({path:process.argv[2]+'/l844.png'});if(w===360)await p.screenshot({path:process.argv[2]+'/p360.png'});
  await c.close()}
 console.log('done',bad);await b.close()})();

diff --git a/tools/school/shots.js b/tools/school/shots.js
@@ -9,8 +9,8 @@ const p=await ctx.newPage();await p.goto(URL);
 const shot=async(n,clip)=>{await p.waitForTimeout(350);await p.screenshot({path:`${tmp}/${n}.png`})};
 const A=(a,e='')=>p.click(`[data-a="${a}"]${e}`);
 await p.click('[data-a="new"]');await p.fill('[data-f="t1"]','範例藍隊');await p.fill('[data-f="t2"]','範例橘隊');await shot('h-new');await A('newgo');
-const f=async(k,ns,ls)=>{for(let i=0;i<ns.length;i++)await p.fill(`[data-r="${k}"][data-g="p"][data-i="${i}"]`,''+ns[i]);for(let i=0;i<ls.length;i++)await p.fill(`[data-r="${k}"][data-g="l"][data-i="${i}"]`,''+ls[i])};
-await f('t1',[1,2,3,4,5,6,8,9],[7]);await f('t2',[11,12,13,14,15,16,18,19],[17]);await shot('h-roster');await A('rosgo');
+const f=async(k,ns,ls)=>{const put=async(g,i,n)=>{await p.click(`.rcell[data-k="${k}"][data-gp="${g}"][data-v="${i}"]`);for(const d of String(n))await p.click(`[data-a="rkey"][data-v="${d}"]`)};for(let i=0;i<ns.length;i++)await put('p',i,ns[i]);for(let i=0;i<ls.length;i++)await put('l',i,ls[i])};
+await f('t1',[1,2,3,4,5,6,8,9],[7]);await f('t2',[11,12,13,14,15,16,18,19],[17]);await shot('h-roster');await A('rdone');await A('rosgo');
 await p.click('.tossb[data-v="t1"]');for(const n of [1,2,3,4])await p.click(`[data-a="lupick"][data-v="${n}"]`);await shot('h-set');
 for(const n of [5,6,11,12,13,14,15,16])await p.click(`[data-a="lupick"][data-v="${n}"]`);await A('setgo');
 const pt=async k=>{await p.click(`.pt[data-k="${k}"]`);await p.waitForTimeout(370)};

diff --git a/tools/school/offline.js b/tools/school/offline.js
@@ -6,7 +6,7 @@ console.log('cached',await p.evaluate(async()=>{const k=await caches.keys();retu
 await p.click('[data-a=sample]');await p.click('.tossb[data-v=t1]').catch(()=>{});await p.click('[data-a=setgo]');await p.click('.pt >> nth=0');
 await c.setOffline(true);await p.reload();await p.waitForTimeout(1200);
 console.log('offline resumed',await p.textContent('.bar h1'),await p.locator('.sc').first().textContent());
-await p.click('[data-a=help]');await p.click('[data-a=helpt] >> nth=1').catch(()=>{});await p.click('[data-a=helpt]').catch(()=>{});await p.waitForTimeout(500);
+await p.click('[data-a=help]');await p.click('[data-a=helpt] >> nth=1').catch(()=>{});await p.waitForTimeout(500);
 console.log('help img ok',await p.evaluate(()=>{const i=document.querySelector('.himg img');return i&&i.complete&&i.naturalWidth>0}));
 await c.setOffline(false);await p.goto('http://localhost:8765/');await p.waitForTimeout(1500);
 console.log('main keys',await p.evaluate(()=>Object.keys(localStorage)),await p.title(),await p.evaluate(async()=>(await caches.keys())));

diff --git a/school/sw.js b/school/sw.js
@@ -1,5 +1,5 @@
 /* 離線快取：開 App 時先向網站確認新版，最多等 WAIT 毫秒。沒回應或回應不正常就用快取，網站之後回應了再更新快取，下次打開就是新版 */
-var CACHE='vbschool-bcef5d2e';
+var CACHE='vbschool-83d451d2';
 var PREFIX='vbschool-';
 var WAIT=1500;
 var FILES=["./", "index.html", "manifest.webmanifest", "icons/icon-180.png", "icons/icon-192.png", "icons/icon-512.png", "icons/icon-maskable-512.png", "help/h-back.webp", "help/h-bound.webp", "help/h-force.webp", "help/h-libin.webp", "help/h-libon.webp", "help/h-new.webp", "help/h-play.webp", "help/h-roster.webp", "help/h-set.webp", "help/h-setnext.webp", "help/h-sub.webp", "help/h-timeout.webp"];
